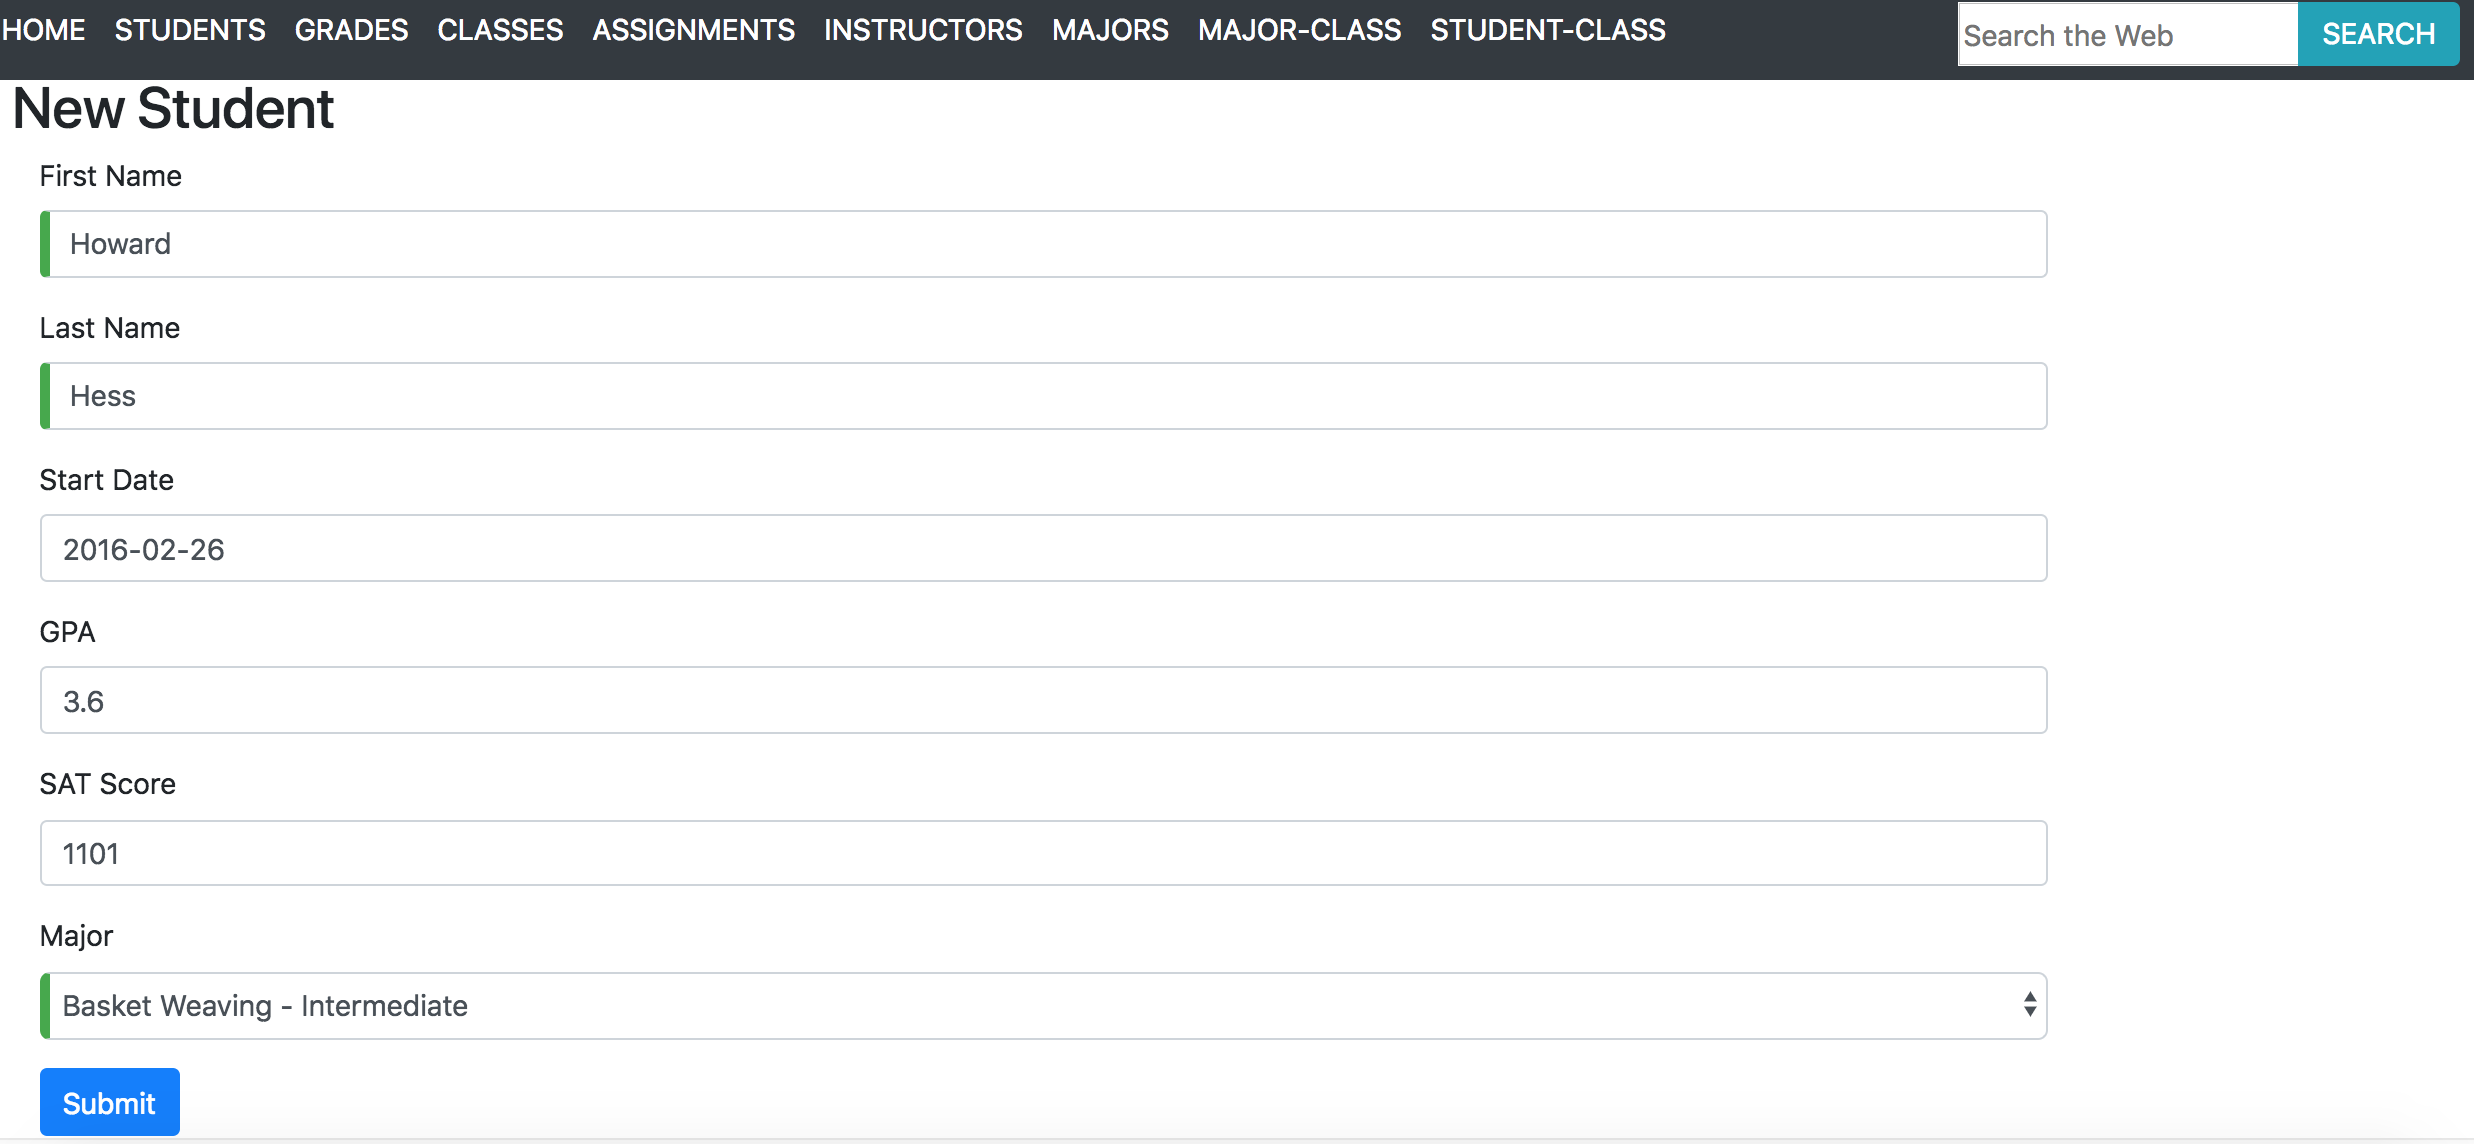
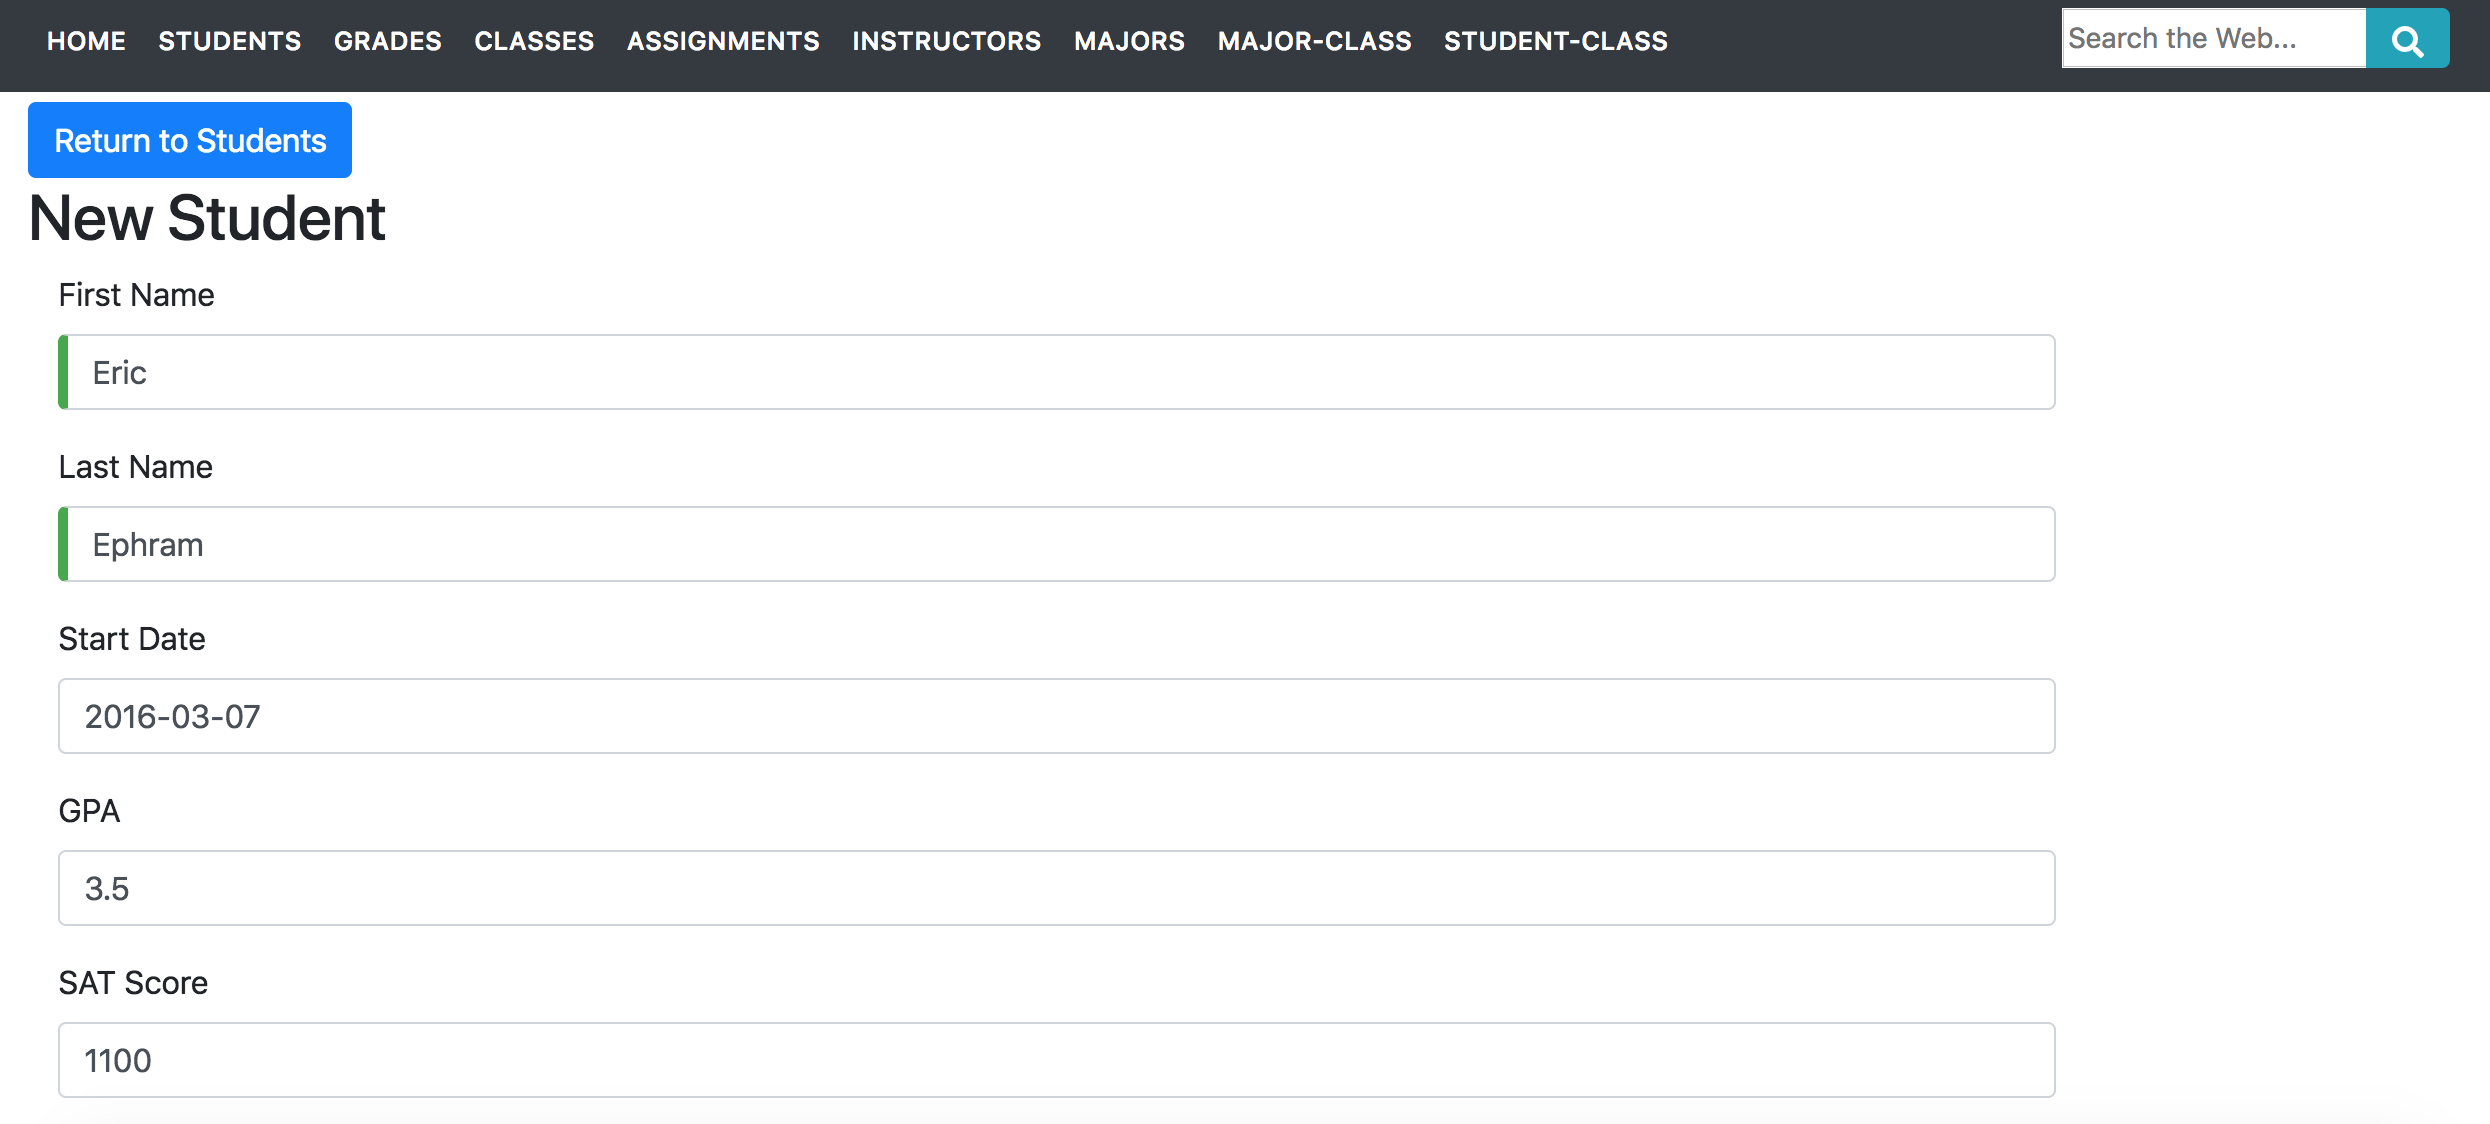
updated and cleaned up styles

Changed region(s): [[0.0, 0.0, 1.0, 0.3737], [0.0, 0.4048, 0.8092, 0.9964]]

diff --git a/src/app/navigation/navigation.component.html b/src/app/navigation/navigation.component.html
@@ -1,30 +1,26 @@
 <nav style="height: 55px;" class="navbar navbar-collapse navbar-toggleable-md navbar-dark bg-dark fixed-top navbar-expand-sm" role="navigation">
     <div class="collapse navbar-collapse">
         <ul class="navbar-nav mr-auto">
-                <li class="w-16 p-2" routerLinkActive="active"><a routerLink="/home">Home</a></li>
-                <li class="w-16 p-2" routerLinkActive="active"><a routerLink="/student" >Students </a></li>
-                <li class="w-16 p-2" routerLinkActive="active"><a routerLink="/grade" >Grades </a></li>
-                <li class="w-16 p-2" routerLinkActive="active"><a routerLink="/class" >Classes </a></li>
-                <li class="w-16 p-2" routerLinkActive="active"><a routerLink="/assignment" >Assignments </a></li>
-                <li class="w-16 p-2" routerLinkActive="active"><a routerLink="/instructor" >Instructors </a></li>
-                <li class="w-16 p-2" routerLinkActive="active"><a routerLink="/major" >Majors </a></li>
-                <li class="w-16 p-2" routerLinkActive="active"><a routerLink="/major-class" >Major-Class </a></li>
-                <li class="w-16 p-2" routerLinkActive="active"><a routerLink="/student-class" >Student-Class </a></li>
+                <li class="w-16 p-2" routerLinkActive="active"><a routerLink="/home">home</a></li>
+                <li class="w-16 p-2" routerLinkActive="active"><a routerLink="/student" >students </a></li>
+                <li class="w-16 p-2" routerLinkActive="active"><a routerLink="/grade" >grades </a></li>
+                <li class="w-16 p-2" routerLinkActive="active"><a routerLink="/class" >classes </a></li>
+                <li class="w-16 p-2" routerLinkActive="active"><a routerLink="/assignment" >assignments </a></li>
+                <li class="w-16 p-2" routerLinkActive="active"><a routerLink="/instructor" >instructors </a></li>
+                <li class="w-16 p-2" routerLinkActive="active"><a routerLink="/major" >majors </a></li>
+                <li class="w-16 p-2" routerLinkActive="active"><a routerLink="/major-class" >major-class </a></li>
+                <li class="w-16 p-2" routerLinkActive="active"><a routerLink="/student-class" >student-class </a></li>
         </ul>
 
-        <div class="form-inline ml-auto srch-form">
+        <div class="form-control-sm form-inline ml-auto srch-form">
             <form (ngSubmit)="doWebSearch(srchtext)" #searchForm="ngForm">
-                <div class="input-group" style="padding: 0; margin-top: 2px; margin-bottom: 3px;">
-
-                    <input [(ngModel)]="srchtext" id="srchText" name="srchtext" type="text" [(ngModel)]="srchtext" autofocus="autofocus" placeholder="Search the Web"> 
-
+                <div class="input-group">
+                    <input [(ngModel)]="srchtext" id="srchText" name="srchtext" type="text" [(ngModel)]="srchtext" autofocus="autofocus" placeholder="Search the Web..."> 
                     <span class="input-group-append">
                         <button id="srchButton" type="submit" class="btn btn-block btn-info"><i class="fas fa-search"></i></button>
                     </span>
-
                 </div>
             </form>
         </div>
-
     </div>
 </nav>

diff --git a/src/styles.css b/src/styles.css
@@ -2,7 +2,7 @@
 
 table.table {
     width: auto;
-    margin:0 auto;
+    margin: 0 auto;
 }
 
 /** only for the body of the table. */
@@ -16,7 +16,7 @@ table.table tbody td {
 }
 
 .wrapper{
-  position:relative;
+  position: relative;
   width: 98%;
 }
 
@@ -25,7 +25,7 @@ table.table tbody td {
 }
   
 .small-img{
-  position:absolute;
+  position: absolute;
   right: 43%;
   top: 63%;
   width: 15%;
@@ -42,15 +42,6 @@ table.table tbody td {
     margin-bottom: 0px;
     padding: 0px;
 }
-
-/* .breadcrumb {
-    color: black;
-    float: left;
-    padding-left: 0px;
-    margin-left: 0px;
-    margin-top: 50px;
-    margin-bottom: 5px;
-} */
 
 h1 {
     padding: 0px;
@@ -79,6 +70,7 @@ hr {
 }
 
 footer {
+    font-variant: small-caps;
     width: 95%;
 }
 
@@ -91,36 +83,39 @@ footer {
     border-left: 1px solid black;
 }
 
-.srch-form {
-    margin-top: 6px;
-}
-
 .navbar {
     width: 100%;
+    min-height: 40px;
 }
 
-.navbar {
-    min-height: 40px;
-  }
+.navbar-nav {
+    font-variant: small-caps;
+    padding-left: 15px;
+    /* font-family: fantasy; */
+}
   
   .navbar-brand {
     padding: 0 15px;
     height: 80px;
     line-height: 80px;
-  }
+}
   
   .navbar-toggle {
     /* (80px - button height 34px) / 2 = 23px */
     margin-top: 23px;
     padding: 9px 10px !important;
-  }
+}
+
+.input-group {
+    /* font-family: fantasy; */
+    height: 30px;
+}
   
 
 /* LINK STYLING */
 a {
     color: white;
     text-decoration: none;
-    text-transform: uppercase;
     font-style: normal;
 }
 

diff --git a/src/app/home/home.component.html b/src/app/home/home.component.html
@@ -94,9 +94,6 @@
     </div>
     <!-- End Container #2 / End Row #2 -->
     
-    <br>
-    <br>
-        
 <footer class="bg-dark text-white mt-4">
     <div class="container-fluid py-3">
         <div class="row">
